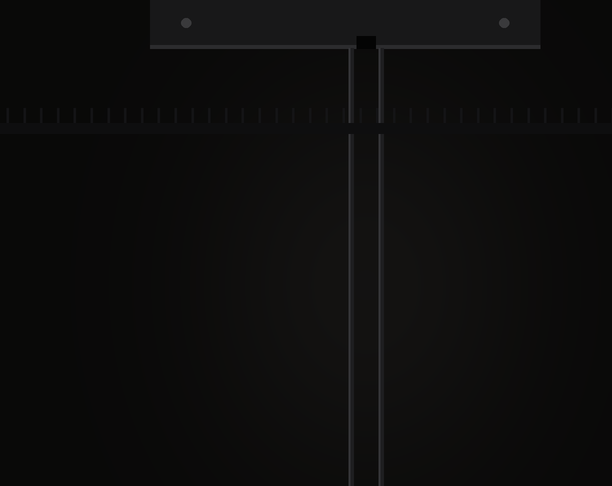
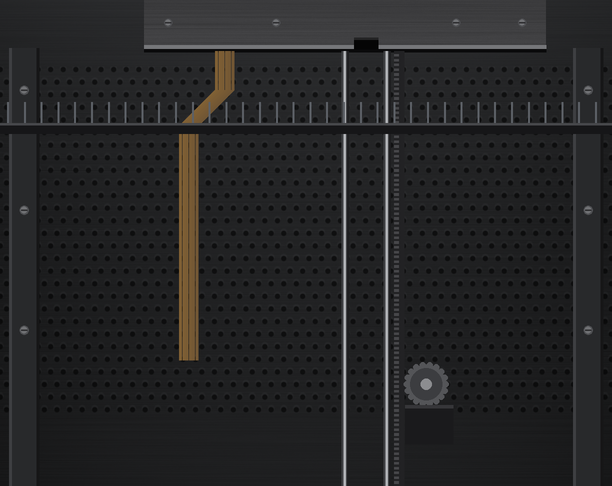
changer: the mechanism shows through a lighter glass
Behind the discs the window now shows the inside of a file changer: a
punched back plate between two uprights, the drive's housing with its flat
cable, the loader's rods, rack and gear, a tooth for each slot along the
file's rim (turning with it) and the fork that lifts a disc. The glass is
less smoked and its broad reflection softer. The lamp's warm wash over the
discs is gone; in standby the inside dims instead.

diff --git a/native-ui-qt/qml/AnimChanger.qml b/native-ui-qt/qml/AnimChanger.qml
@@ -3,8 +3,8 @@
 // in a rotating file of 101 slots; each album has its own slot. A new album
 // sends the disc in the drive back down into its slot, turns the file until
 // the new album's disc (its artwork printed on the label) reaches the
-// loader, and the loader lifts it out of the file, a hidden lamp lighting the
-// empty slot; in the drive's window, top right, the disc arrives from the
+// loader, and the loader's fork lifts it out of the file;
+// in the drive's window, top right, the disc arrives from the
 // left, settles on the spindle over the laser lens, the clamper comes down
 // and it turns while the music plays. The fluorescent display counts the slots going past, then
 // shows disc, track and time. The keys work: standby, play/pause, stop,
@@ -368,7 +368,7 @@ Item {
             root.speed = (u >= 1 && !root.spinUp) ? 0 : v
         }
     }
-    // the cabinet's lamp: on with the power, fading in and out
+    // the light inside the cabinet: on with the power, fading in and out
     property real lamp: !live || power ? 1 : 0
     Behavior on lamp { NumberAnimation { duration: 600 } }
 
@@ -527,12 +527,6 @@ Item {
             clip: true
 
             Pic { anchors.fill: parent; source: root.assetsBase + "interior.png" }
-            // the lamp behind the loader lights the back of the cabinet
-            Pic {
-                anchors.fill: parent
-                source: root.assetsBase + "lamp-back.png"
-                opacity: root.lamp
-            }
 
             // the file: the discs within sight of the window, nearest on top.
             // Each of the 37 places keeps the same disc while it is in view (the
@@ -602,6 +596,32 @@ Item {
                     }
                 }
             }
+            // the file's slots along its rim: a tooth between each two discs,
+            // turning with them (empty slots show theirs too)
+            Repeater {
+                model: root.places
+                Rectangle {
+                    required property int index
+                    readonly property int base: Math.round(root.drumAngle / root.pitch) - (root.places - 1) / 2
+                    readonly property int n: base + (((index - base) % root.places) + root.places) % root.places
+                    readonly property real rad: ((n + 0.5) * root.pitch - root.drumAngle + root.loaderPhi) * Math.PI / 180
+                    readonly property real sc: root.focal / (root.focal + root.radius * (1 - Math.cos(rad)))
+                    x: root.axisX + root.radius * Math.sin(rad) * sc - width / 2
+                    y: root.eyeY + (root.discY + root.discD / 2 - 14 - root.eyeY) * sc
+                    width: 2.2 * sc; height: 14 * sc
+                    radius: 0.6 * sc
+                    color: "#2c2d30"
+                    border.width: 0.4 * sc; border.color: "#55575b"
+                    visible: Math.abs(rad) < 1.08
+                }
+            }
+            // the loader's fork, under the disc it lifts or lowers
+            Pic {
+                readonly property real up: Math.max(root.lift, root.drop) * root.liftTravel
+                x: root.loaderX - 8; y: root.discY + root.discD / 2 - 5 - up
+                width: 16; height: 10
+                source: root.assetsBase + "fork.png"
+            }
 
             // the drive's housing up top: the lifted disc goes in behind it
             Item {
@@ -611,12 +631,8 @@ Item {
             }
             // the turntable's rim across the bottom: the discs stand in it
             Pic { x: 0; y: 140; width: root.winW; height: root.winH - 140; source: root.assetsBase + "lip.png" }
-            // and a little of it falls on the discs' edges
-            Pic {
-                anchors.fill: parent
-                source: root.assetsBase + "lamp-front.png"
-                opacity: root.lamp
-            }
+            // in standby the cabinet's light is off
+            Rectangle { anchors.fill: parent; color: "#000000"; opacity: 0.5 * (1 - root.lamp) }
             Pic { anchors.fill: parent; source: root.assetsBase + "glass.png" }
         }
 

diff --git a/native-ui-qt/tools/np-anim/changer.py b/native-ui-qt/tools/np-anim/changer.py
@@ -65,7 +65,7 @@ KNOB = (104, 225)
 KNOB_R = 8
 
 # the window's insides
-LOADER_X = (GLASS[0] + GLASS[2]) / 2 + 20   # the loader's column (the lamp behind it)
+LOADER_X = (GLASS[0] + GLASS[2]) / 2 + 20   # the loader's column
 DISC_D = 128                         # disc diameter in units
 VFD_COL = (196, 236, 255)
 
@@ -410,57 +410,101 @@ def standby_led(name, glow_rgb, core_rgb, hot_rgb):
 
 # ── the window: insides, lip, glass ───────────────────────────────────────
 def interior():
+    """What the glass shows behind the discs: the cabinet's back plate,
+    punched, between two uprights; the single drive up top with its flat
+    cable; the loader's column (two polished rods, a toothed rack, the motor's
+    gear); beyond the discs, the far side of the file. Lit evenly from above,
+    as the inside of the real one, so the mechanism reads."""
     gw, gh = GLASS[2] - GLASS[0], GLASS[3] - GLASS[1]
     img = canvas(gw, gh)
     w, h = img.size
     yy, xx = np.mgrid[0:h, 0:w].astype(np.float32)
     u, v = xx / SS, yy / SS
     lx = LOADER_X - GLASS[0]
-    # the back of the cabinet, a little light from the loader
-    base = 9 + 10 * np.exp(-((u - lx) ** 2) / (2 * 40 ** 2)) * np.exp(-((v - 95) ** 2) / (2 * 50 ** 2))
-    rgb = np.stack([base * 1.05, base, base * 0.95], -1)
+    t = (u - gw / 2) / (gw / 2)
+    # the back plate: dark steel, brighter under the light from above
+    lum = 30 + 16 * np.exp(-v / 70) - 8 * t ** 2
+    lum = lum + brushed(w, h, 31, 0.9, streak=300)
+    # punched with rows of holes, staggered
+    band = (v > 22) * (v < 138)
+    hx = np.mod(u + np.where(np.mod(np.floor(v / 4.2), 2) == 0, 0, 2.1), 4.2) - 2.1
+    hy = np.mod(v, 4.2) - 2.1
+    hole = np.clip((1.05 - np.hypot(hx, hy)) * SS * 0.5, 0, 1) * band
+    lip_ = np.clip((1.3 - np.hypot(hx, hy + 0.5)) * SS * 0.5, 0, 1) * (1 - hole) * band
+    lum = lum * (1 - 0.55 * hole) + 6 * lip_
+    rgb = np.stack([lum * 0.98, lum, lum * 1.04], -1)
     arr = np.dstack([rgb, np.full((h, w), 255, np.float32)])
     img = Image.fromarray(np.clip(arr, 0, 255).astype(np.uint8), 'RGBA')
     d = ImageDraw.Draw(img)
-    # the drive up top: a dark housing with a slot the disc goes into
-    d.rectangle(box((lx - 72, 0, lx + 58, 15)), fill=(24, 24, 25, 255))
-    d.rectangle(box((lx - 72, 15, lx + 58, 16.2)), fill=(44, 44, 46, 255))
-    d.rectangle(box((lx - 3.2, 12, lx + 3.2, 16.2)), fill=(4, 4, 4, 255))
-    for x in (lx - 60, lx + 46):
-        d.ellipse(box((x - 1.6, 6, x + 1.6, 9.2)), fill=(58, 58, 60, 255))
-    # the loader's column: two rails behind the discs
-    for x in (lx - 5.0, lx + 5.0):
-        d.rectangle(box((x - 0.8, 16, x + 0.8, gh)), fill=(30, 30, 32, 255))
-        d.rectangle(box((x - 0.8, 16, x - 0.4, gh)), fill=(52, 52, 55, 255))
-    # the far side of the file: the discs' tops beyond the turntable hub
+
+    def screw(x, y, r=1.5):
+        d.ellipse(box((x - r, y - r, x + r, y + r)), fill=(78, 79, 82, 255))
+        d.ellipse(box((x - r + 0.35, y - r + 0.35, x + r - 0.5, y + r - 0.5)), fill=(112, 113, 116, 255))
+        d.line([px(x - r * 0.7), px(y), px(x + r * 0.7), px(y)], fill=(48, 48, 50, 255), width=px(0.45))
+
+    # the cabinet's uprights, left and right, bolted to the back
+    for x0 in (3, gw - 13):
+        d.rectangle(box((x0, 16, x0 + 10, gh)), fill=(40, 41, 43, 255))
+        d.rectangle(box((x0, 16, x0 + 0.8, gh)), fill=(62, 63, 66, 255))
+        d.rectangle(box((x0 + 9.2, 16, x0 + 10, gh)), fill=(22, 22, 23, 255))
+        for y in (30, 70, 110):
+            screw(x0 + 5, y)
+    # the drive up top: a brushed housing, its lower edge catching the light,
+    # a slot the disc goes into, four screws
+    hh = px(16)
+    hl = 58 + 10 * np.linspace(0, 1, hh, dtype=np.float32)[:, None] + brushed(w, hh, 5, 2.2)
+    house = Image.fromarray(np.clip(np.stack([hl, hl, hl * 1.03], -1), 0, 255).astype(np.uint8), 'RGB')
+    img.paste(house.crop((px(lx - 74), 0, px(lx + 60), hh)), (px(lx - 74), 0))
+    d.rectangle(box((lx - 74, 15, lx + 60, 16.4)), fill=(118, 119, 122, 255))
+    d.rectangle(box((lx - 74, 16.4, lx + 60, 17.4)), fill=(10, 10, 11, 255))
+    d.rectangle(box((lx - 4, 12.5, lx + 4, 16.4)), fill=(5, 5, 5, 255))
+    d.rectangle(box((lx - 4, 12.5, lx + 4, 13.1)), fill=(36, 36, 37, 255))
+    for x in (lx - 66, lx - 30, lx + 30, lx + 52):
+        screw(x, 7.5, 1.4)
+    # its flat cable, folded down the back to the left
+    for i in range(6):
+        c = (128 - i * 3, 96 - i * 2, 52, 255)
+        x1, x2 = lx - 50 + i * 1.1, lx - 62 + i * 1.1
+        d.line([px(x1), px(17), px(x1), px(30), px(x2), px(42), px(x2), px(120)], fill=c, width=px(1.0))
+    # the loader's column: a toothed rack and two polished rods
+    rx = lx + 11
+    d.rectangle(box((rx - 1.6, 17, rx + 1.6, gh)), fill=(34, 34, 36, 255))
+    for y in np.arange(18, gh, 1.6):
+        d.rectangle(box((rx - 1.6, y, rx - 0.2, y + 0.7)), fill=(70, 70, 73, 255))
+    for x in (lx - 7.0, lx + 7.0):
+        d.rectangle(box((x - 1.1, 17, x + 1.1, gh)), fill=(64, 65, 68, 255))
+        d.rectangle(box((x - 0.5, 17, x + 0.1, gh)), fill=(176, 178, 182, 255))
+        d.rectangle(box((x + 0.6, 17, x + 1.1, gh)), fill=(30, 30, 32, 255))
+    # the lift motor and its gear, low beside the rack
+    gx, gy, gr = rx + 9, 128, 6.5
+    for k in range(18):
+        an = k * math.pi * 2 / 18
+        tx, ty = gx + math.cos(an) * gr, gy + math.sin(an) * gr
+        d.ellipse(box((tx - 1.0, ty - 1.0, tx + 1.0, ty + 1.0)), fill=(84, 85, 88, 255))
+    d.ellipse(box((gx - gr, gy - gr, gx + gr, gy + gr)), fill=(84, 85, 88, 255))
+    d.ellipse(box((gx - gr + 1.2, gy - gr + 1.2, gx + gr - 1.2, gy + gr - 1.2)), fill=(60, 61, 64, 255))
+    d.ellipse(box((gx - 1.8, gy - 1.8, gx + 1.8, gy + 1.8)), fill=(140, 141, 144, 255))
+    d.rectangle(box((gx - 7, gy + 7, gx + 9, gy + 20)), fill=(26, 26, 28, 255))
+    d.rectangle(box((gx - 7, gy + 7, gx + 9, gy + 8)), fill=(54, 54, 57, 255))
+    # the far side of the file: the discs' tops beyond the hub, its far rim
     for i in range(-22, 23):
         x = gw / 2 + i * 5.6 + 1.3
-        d.line([px(x), px(36), px(x), px(42)], fill=(20, 20, 22, 255), width=px(0.9))
-    d.rectangle(box((0, 41, gw, 44.5)), fill=(14, 14, 15, 255))
+        d.line([px(x), px(34), px(x), px(42)], fill=(92, 96, 102, 255), width=px(0.7))
+    d.rectangle(box((0, 41, gw, 44.5)), fill=(22, 22, 24, 255))
+    d.rectangle(box((0, 41, gw, 41.6)), fill=(70, 71, 74, 255))
     save(finish(img), 'interior.png')
 
 
-def lamp():
-    """The light inside the cabinet, from a lamp hidden behind the loader's
-    column: no point of it shows, only what it lights. Behind the discs it
-    warms the back wall; over them it catches their edges a little."""
-    gw, gh = GLASS[2] - GLASS[0], GLASS[3] - GLASS[1]
-    lx, ly = LOADER_X - GLASS[0], 112 - GLASS[1]
-    rng = np.random.default_rng(7)
-    for name, sx, sy, peak, tail in (('lamp-back.png', 58, 50, 0.34, 0.10),
-                                     ('lamp-front.png', 46, 40, 0.17, 0.05)):
-        img = canvas(gw, gh)
-        w, h = img.size
-        yy, xx = np.mgrid[0:h, 0:w].astype(np.float32)
-        du, dv = xx / SS - lx, yy / SS - ly
-        q = (du / sx) ** 2 + (dv / sy) ** 2
-        # a soft pool and a long tail, the light reaching into the corners
-        a = peak * np.exp(-q / 2) + tail * np.exp(-q / 9)
-        # dithered, or the faint falloff bands into steps
-        a = a * 255 + rng.uniform(-0.5, 0.5, a.shape)
-        rgb = np.stack([np.full_like(a, 255), np.full_like(a, 238), np.full_like(a, 208)], -1)
-        arr = np.dstack([rgb, np.clip(a, 0, 255)])
-        save(finish(Image.fromarray(arr.astype(np.uint8), 'RGBA')), name)
+def fork():
+    """The loader's fork: the cradle that lifts a disc by its edge."""
+    fw, fh = 16, 10
+    img = canvas(fw, fh)
+    d = ImageDraw.Draw(img)
+    d.rectangle(box((fw / 2 - 2.2, 0, fw / 2 + 2.2, fh)), fill=(70, 71, 74, 255))
+    d.polygon([(px(0), px(3)), (px(fw), px(3)), (px(fw - 3), px(7.5)), (px(3), px(7.5))], fill=(88, 89, 92, 255))
+    d.rectangle(box((1, 3, fw - 1, 3.8)), fill=(160, 161, 165, 255))
+    d.rectangle(box((fw / 2 - 1.2, 2.2, fw / 2 + 1.2, 4.2)), fill=(14, 14, 15, 255))
+    save(finish(img), 'fork.png')
 
 
 def lip():
@@ -494,7 +538,7 @@ def sheen(u, v, gw, gh):
     streaks, the rim catching the light (most at the top), and a faint sheen
     from above. Alpha, 0..1."""
     d = u + 0.55 * v
-    a = 0.17 * np.exp(-((d - gw * 0.30) ** 2) / (2 * (gw * 0.07) ** 2))
+    a = 0.09 * np.exp(-((d - gw * 0.30) ** 2) / (2 * (gw * 0.07) ** 2))
     a += 0.13 * np.exp(-((d - gw * 0.47) ** 2) / (2 * (gw * 0.012) ** 2))
     a += 0.08 * np.exp(-((d - gw * 0.88) ** 2) / (2 * (gw * 0.025) ** 2))
     a += 0.18 * np.exp(-v / 1.3) + 0.06 * np.exp(-(gh - v) / 1.8)
@@ -511,7 +555,7 @@ def glass():
     u, v = xx / SS, yy / SS
     t = (u - gw / 2) / (gw / 2)
     # smoked tint, darker to the sides and under the top edge
-    a = 0.52 + 0.40 * np.abs(t) ** 2.0 + 0.35 * np.exp(-v / 9) + 0.20 * np.clip((v - 120) / 40, 0, 1)
+    a = 0.20 + 0.42 * np.abs(t) ** 2.6 + 0.32 * np.exp(-v / 8) + 0.16 * np.clip((v - 125) / 37, 0, 1)
     a = np.clip(a, 0, 0.94)
     rgb = np.zeros((h, w, 3), np.float32) + np.array([6, 6, 7], np.float32)
     # reflections of the room on the glass
@@ -879,7 +923,7 @@ def main():
     standby_led('led-standby.png', (255, 40, 30), (255, 70, 55), (255, 190, 170))
     standby_led('led-on.png', (40, 230, 90), (70, 240, 110), (200, 255, 210))
     interior()
-    lamp()
+    fork()
     lip()
     glass()
     drive_bg()
